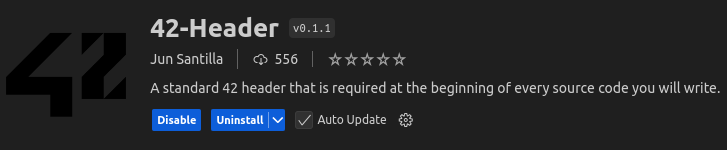
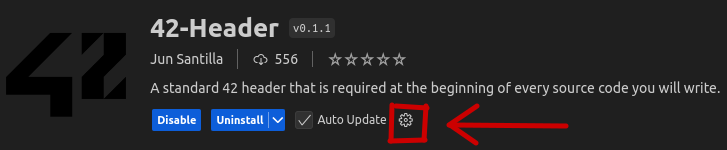
Ecole42 Header VSCode

Changed region(s): [[0.5144, 0.6933, 0.7868, 0.96]]

diff --git a/README.md b/README.md
@@ -1,22 +1,28 @@
+<img src="https://raw.githubusercontent.com/Noxi-root/42Header-vscode/refs/heads/main/pics/42.png">
+
 <h1 align="center"> 42 Header </h1>
 
-## Kurulum
+## 🔴 Kurulum
 
 Özel kurulum adımları gerekmez. Uzantıyı Visual Studio Code'a kurmanız yeterlidir.
-<img src="">
+<img src="https://raw.githubusercontent.com/Noxi-root/42Header-vscode/refs/heads/main/pics/42Header-kurulum.png">
 
-## Kullanım
+## 🔴 Ayarlar
+
+Aşağıdaki ayarları değiştirerek uzantıyı özelleştirebilirsiniz:
+<img src="https://raw.githubusercontent.com/Noxi-root/42Header-vscode/refs/heads/main/pics/42Header-ayarlar-nas%C4%B1l-girilir.png">
+- `42header.customDomain`: 42 başlıklı uzantı için özel alan.
+- `42header.email`: 42 başlıklı uzantı için özel e-posta.
+- `42header.username`: 42-header uzantısı için özel kullanıcı adı.
+<img src="https://raw.githubusercontent.com/Noxi-root/42Header-vscode/refs/heads/main/pics/42Header-ayarlar.png">
+
+## 🔴 Kullanım
 
 Bu uzantı, her kaynak kodu dosyasının başında bulunması gereken standart bir 42 başlığı sağlar. Başlığı eklemek için aşağıdaki komutu veya tuş bağlamasını kullanın:
 
 - Komut: `42-header.insertComments`
 - Tuş bağlaması: Editör metni odaklandığında `Ctrl + Alt + H` (mac: `⌘ + ⌥ + H`).
-<img src="">
+<img src="https://raw.githubusercontent.com/Noxi-root/42Header-vscode/refs/heads/main/pics/42Header-basl%C4%B1k.png">
 
-## Ayarlar
-
-Aşağıdaki ayarları değiştirerek uzantıyı özelleştirebilirsiniz:
-
-- `42header.customDomain`: 42 başlıklı uzantı için özel alan.
-- `42header.email`: 42 başlıklı uzantı için özel e-posta. - `42header.username`: 42-header uzantısı için özel kullanıcı adı.
-<img src="">
+## 🔴 Yardım
+> __Discord__ üzerinden iletişime geçebilirsiniz: __n_oxxi__
